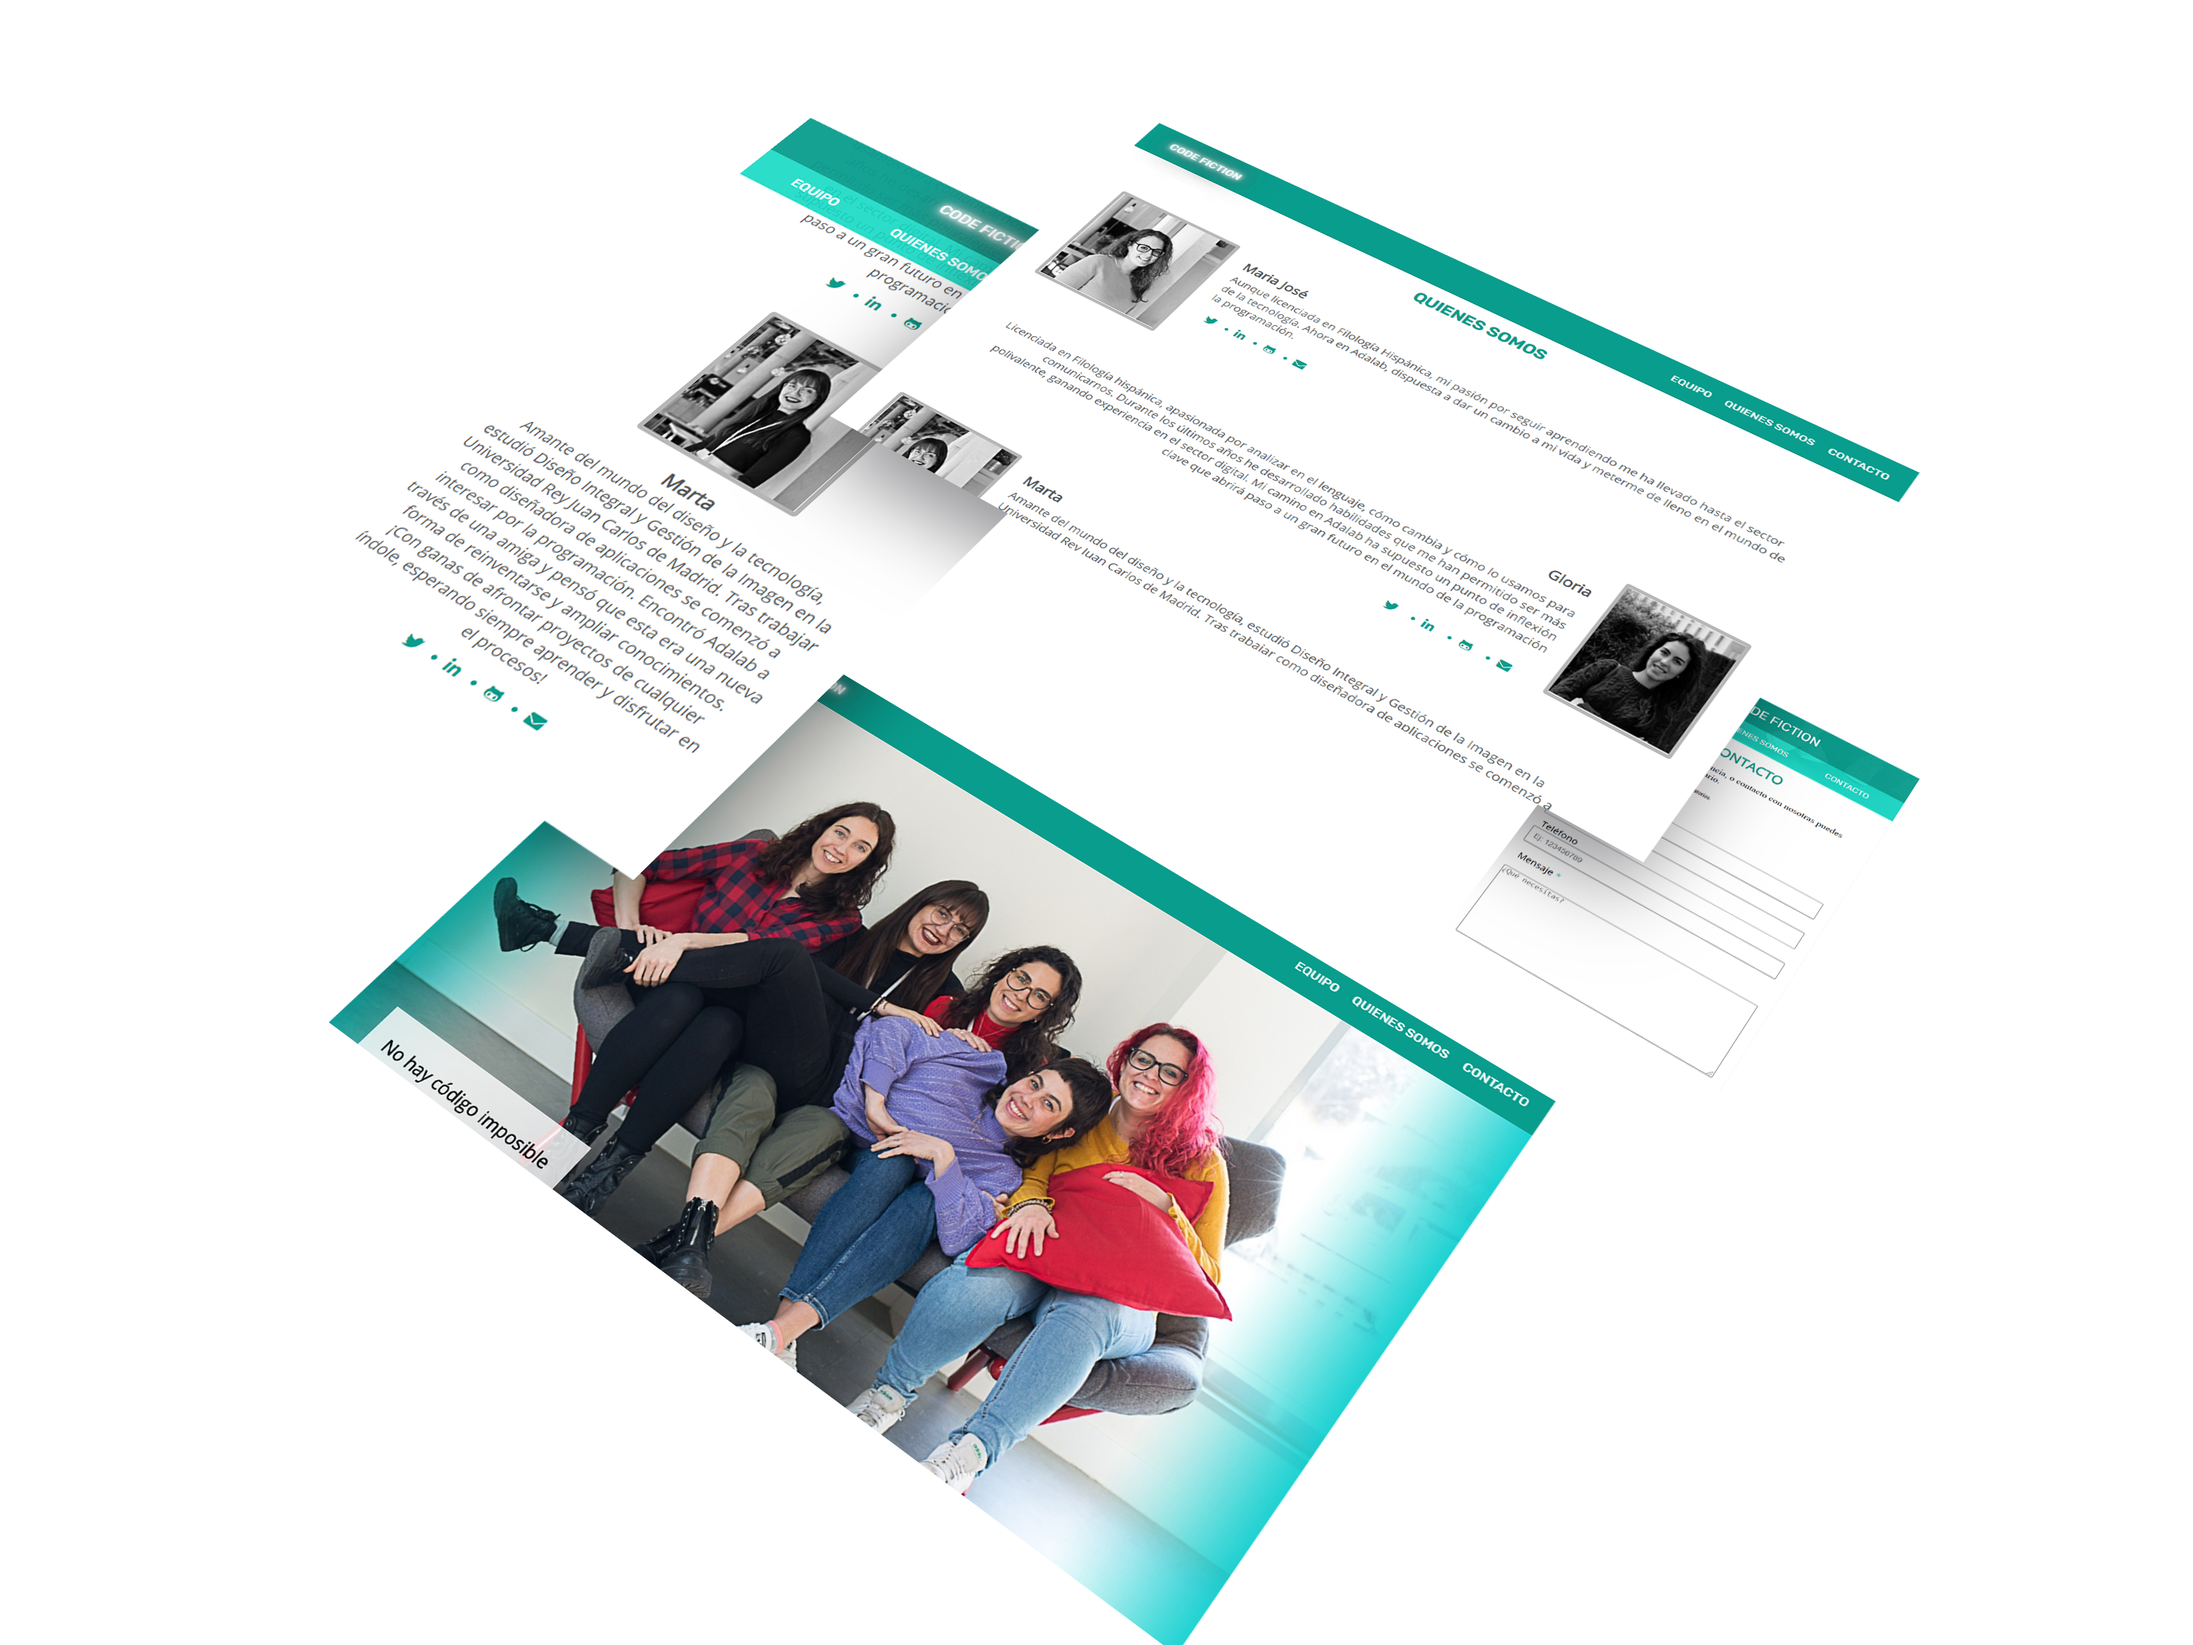
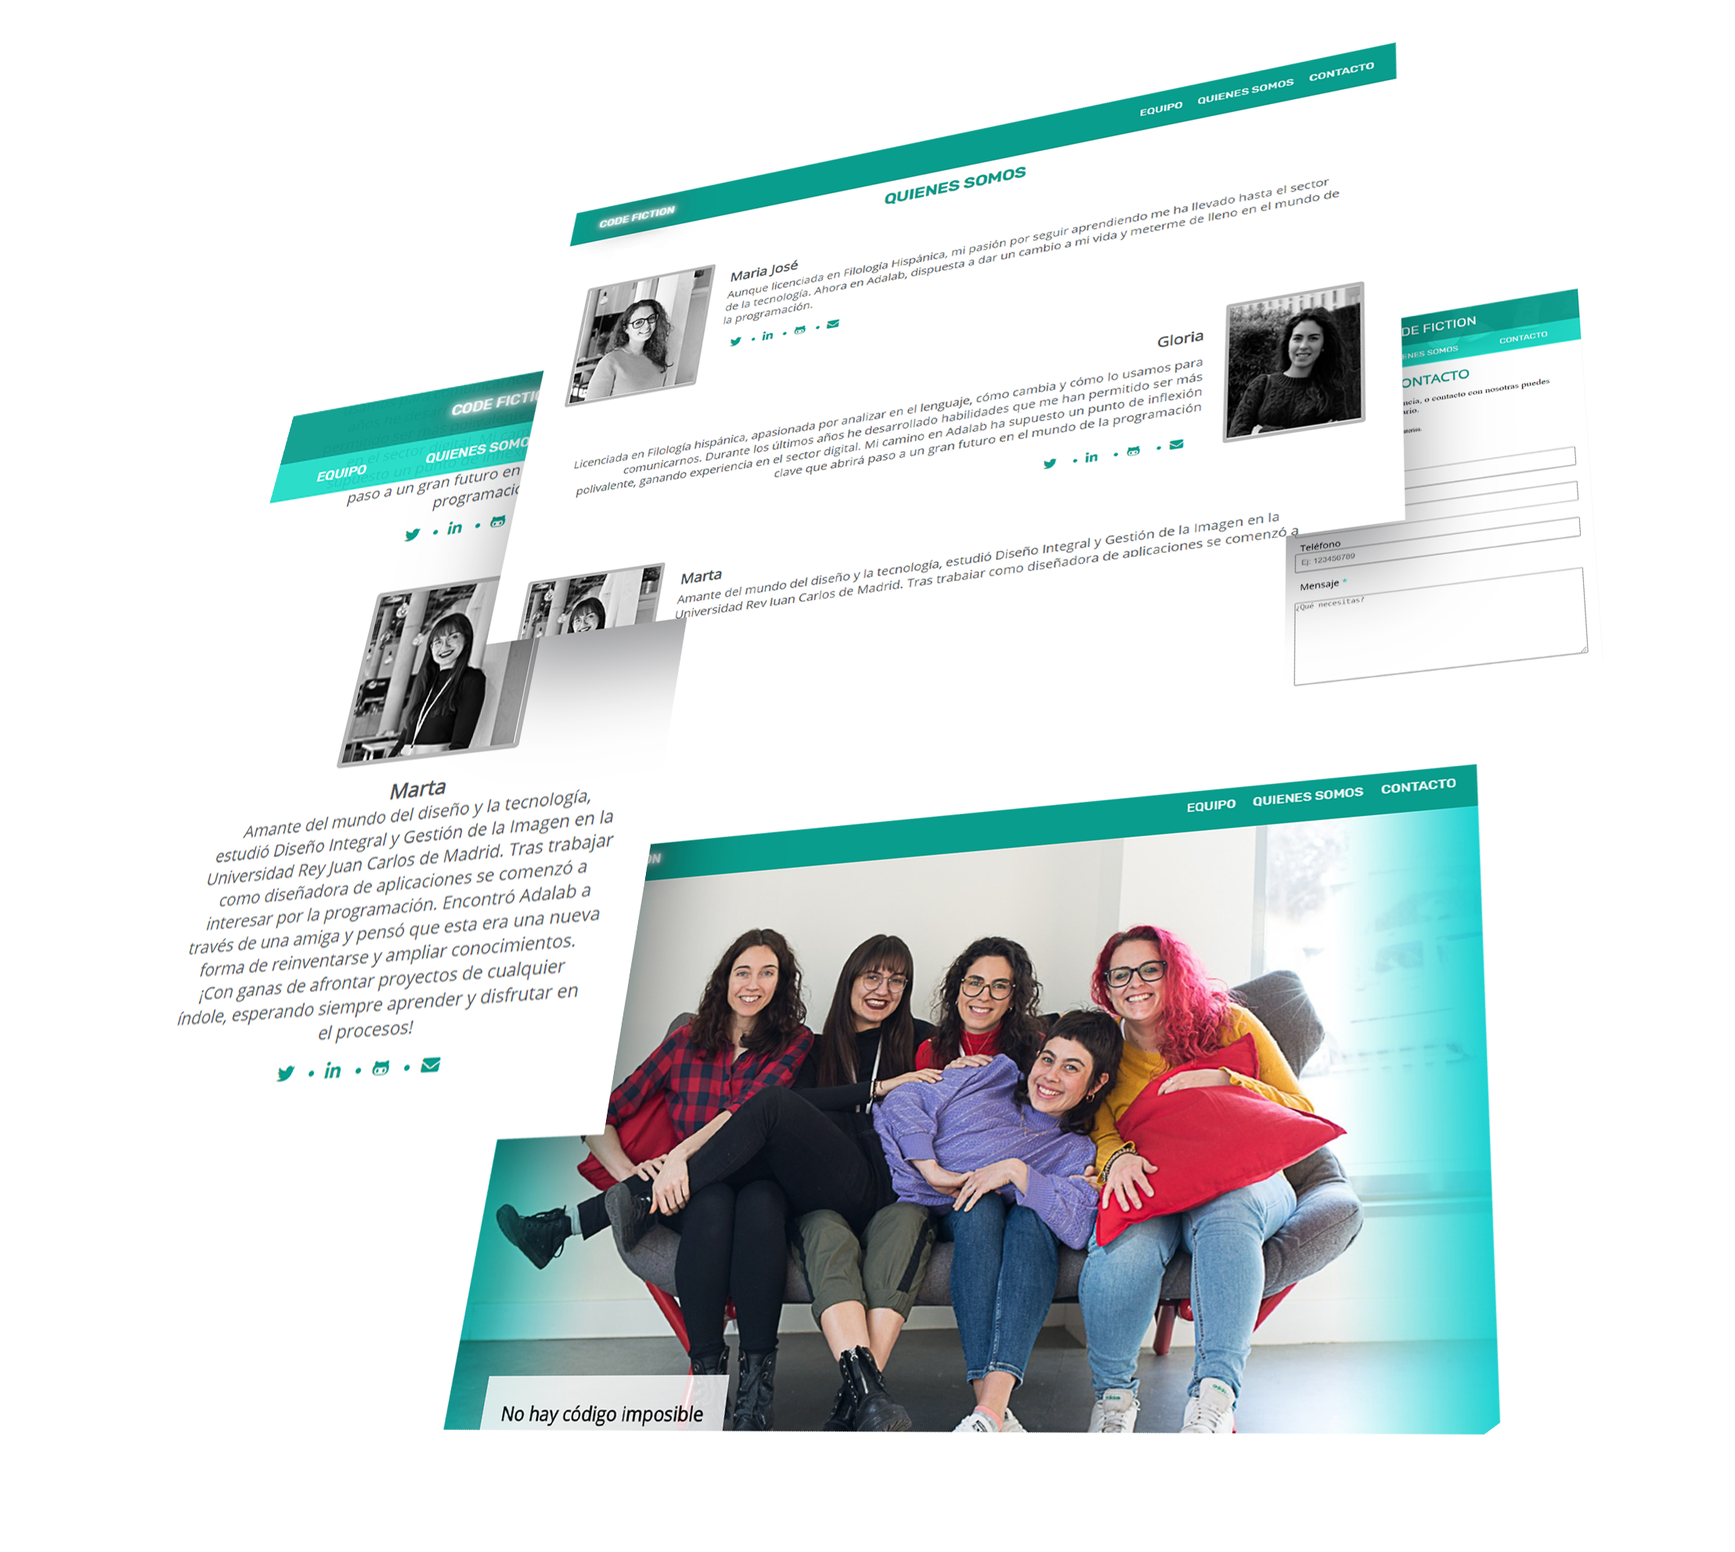
Finish Project Page CSS

diff --git a/src/stylesheets/layout/_app.scss b/src/stylesheets/layout/_app.scss
@@ -44,86 +44,48 @@
     transition: 0.5s;
     color: rgba(255, 255, 255, 0);
   }
-  // &__menu a:hover:after {
-  //   -webkit-text-stroke: 2px white;
-  //   z-index: 2;
-  //   transform: translate(20px, 10px);
-  //   transition: 0.5s;
-  //   color: rgba(255, 255, 255, 0);
-  // }
 }
-// .page {
-//   width: 100vw;
-//   height: 100vh;
-//   color: white;
-// }
+
 .section__about {
-  text-align: left;
-  margin-top: 40px;
-  padding: 0px 130px 0px 130px;
+  display: grid;
+  grid-template-columns: 40% 50%;
+  grid-column-gap: 100px;
   color: white;
   &--box {
-    width: 60%;
-    position: relative;
-    left: 600px;
-    padding-top: 40px;
+    padding-top: 50px;
+    text-align: left;
+    grid-column: 2 / 3;
   }
   &--title {
+    display: inline-block;
     font-family: $par;
     font-size: 60px;
     margin: 0px;
   }
   &--subtitle {
+    display: inline-block;
     font-family: $par;
     font-size: 60px;
     margin: 0px;
   }
   &--subtitle span {
+    display: inline-block;
+    position: relative;
     color: $mainColor;
   }
-  &--subtitle .text-underline::after {
-    position: absolute;
-    content: '';
-    width: 170px;
-    height: 20px;
-    top: 175px;
-    left: 260px;
-    background: white;
-    z-index: -1;
-    transition: transform 0.5s;
-    transform: scaleX(0);
-    transform-origin: right;
-  }
-  &--subtitle .text-underline-two::after {
-    position: absolute;
-    content: '';
-    width: 710px;
-    height: 20px;
-    top: 255px;
-    left: 0px;
-    background: white;
-    z-index: -1;
-    transition: transform 0.5s;
-    transform: scaleX(0);
-    transform-origin: right;
-  }
 
-  &--subtitle .text-underline:hover::after,
-  .text-underline-two:hover::after {
-    transform: scaleX(1);
-    transform-origin: left;
-  }
   &--text {
     display: inline-block;
-    width: 93%;
+    word-wrap: break-word;
     text-align: justify;
     font-family: $par;
+    width: 700px;
   }
   &--container {
     display: inline-block;
-    position: absolute;
-    left: 40;
     height: 500px;
+    grid-column: 1 / 2;
+    vertical-align: middle;
   }
 }
 .section__about img {
@@ -131,7 +93,7 @@
   position: relative;
   z-index: 2;
   top: -40px;
-  left: 80px;
+  left: 20px;
   filter: grayscale(100%);
 }
 .frame {
@@ -151,8 +113,8 @@
     display: inline-block;
     position: relative;
     z-index: -2;
-    top: -75px;
-    left: -380px;
+    top: -480px;
+    left: 20px;
   }
   &__white {
     border: 4px white dotted;
@@ -161,8 +123,8 @@
     display: inline-block;
     position: relative;
     z-index: -3;
-    top: -55px;
-    left: -760px;
+    top: 20px;
+    left: 20px;
   }
   &__bck {
     border: 4px white solid;
@@ -171,9 +133,43 @@
     display: inline-block;
     position: relative;
     z-index: -4;
-    top: -440px;
-    left: 90px;
+    top: 20px;
+    left: 20px;
   }
+}
+.text-underline::before {
+  content: '';
+  position: absolute;
+  width: 100%;
+  transform: scaleX(0);
+  z-index: -1;
+  height: 20px;
+  bottom: 5px;
+  left: 0;
+  background-color: white;
+  transform-origin: bottom right;
+  transition: transform 0.25s ease-out;
+}
+.text-underline:hover::before {
+  transform: scaleX(1);
+  transform-origin: bottom left;
+}
+.text-underline-two::before {
+  content: '';
+  position: absolute;
+  width: 100%;
+  transform: scaleX(0);
+  z-index: -1;
+  height: 20px;
+  bottom: 5px;
+  left: 0;
+  background-color: white;
+  transform-origin: bottom right;
+  transition: transform 0.25s ease-out;
+}
+.text-underline-two:hover::before {
+  transform: scaleX(1);
+  transform-origin: bottom left;
 }
 @media all and (min-width: 768px) {
 }

diff --git a/src/stylesheets/layout/_projects.scss b/src/stylesheets/layout/_projects.scss
@@ -1,21 +1,26 @@
 .section__projects {
-  display: grid;
-  grid-template-columns: 1fr 1fr 1fr;
-  grid-template-rows: 1fr 1fr;
-  grid-gap: 0px;
-  padding-top: 200px;
+  // display: grid;
+  // grid-template-columns: 1fr 1fr 1fr 1fr 1fr 1fr;
+  // grid-template-rows: 1fr;
+  // grid-gap: 20px;
+  padding-top: 100px;
+  width: 100%;
+  display: flex;
+  flex-direction: row;
   overflow-x: scroll;
-  // width: 1000px;
-  overflow: hidden;
+
   &--container {
     display: inline-block;
     grid-column: 1 / 2;
-    grid-row: 1 / 2;
     text-align: center;
-    height: 500px;
+    height: 465px;
+    margin-right: 100px;
+  }
+  &--container:first-child {
+    padding-left: 100px;
   }
   &--container img {
-    height: 500px;
+    height: 450px;
     position: relative;
     left: -110px;
     top: -60px;
@@ -34,11 +39,23 @@
     width: 300px;
   }
 }
+.section__projects::-webkit-scrollbar {
+  height: 5px;
+  background-color: transparent;
+  padding-bottom: 40px;
+}
+.section__projects:hover::-webkit-scrollbar {
+  background-color: white;
+}
+.section__projects:hover::-webkit-scrollbar-thumb {
+  background-color: $mainColor;
+}
+
 .box--decoration {
   background-color: $mainColor;
   border: 10px solid white;
-  height: 400px;
-  width: 400px;
+  height: 350px;
+  width: 350px;
   display: inline-block;
 }
 .box--decoration:hover {
@@ -47,28 +64,22 @@
   box-shadow: 10px -10px 0 -3px black, 10px -10px white, 20px -20px 0 -3px black, 20px -20px white, 30px -30px 0 -3px black, 30px -30px white, 40px -40px 0 -3px black, 40px -40px white;
 }
 .second {
-  grid-column: 2 / 3;
-  grid-row: 1 / 2;
+  grid-column: 3 / 4;
 }
 .second img {
-  margin-left: 60px;
   transform: rotate(-50deg);
+  left: 10px;
 }
 .third {
-  grid-column: 3 / 4;
-  grid-row: 1 / 2;
+  grid-column: 4 / 5;
 }
 .third img {
-  height: 700px;
-  left: -300px;
-  top: -200px;
+  left: 0px;
+  top: -80px;
 }
-.third h4 {
-  top: -330px;
-}
+
 .four {
-  grid-column: 1 /2;
-  grid-row: 2 / 3;
+  grid-column: 5 /6;
 }
 .four img {
   margin-left: 20px;
@@ -78,21 +89,16 @@
   width: 450px;
 }
 .five {
-  grid-column: 2 /3;
-  grid-row: 2 / 3;
+  grid-column: 6 /7;
 }
 .five img {
-  left: -200px;
-  top: -150px;
-  height: 600px;
-}
-.five h4 {
-  top: -230px;
+  left: -80px;
 }
 .six {
-  grid-column: 3 /4;
-  grid-row: 2 / 3;
+  grid-column: 7 /8;
 }
 .six img {
-  transform: rotate(-20deg);
+  left: -70px;
+  top: -100px;
+  transform: rotate(10deg);
 }

diff --git a/src/components/App.js b/src/components/App.js
@@ -37,10 +37,12 @@ function App() {
             <div className="frame__pink">
               {' '}
               <img src={img} title="Marta" alt="Get to know me" />
+              <div className="frame__paper">
+                <div className="frame__white">
+                  <div className="frame__bck"></div>
+                </div>
+              </div>
             </div>
-            <div className="frame__paper"></div>
-            <div className="frame__white"></div>
-            <div className="frame__bck"></div>
           </div>
           <div className="section__about--box">
             <h3 className="page section__about--title">¡Hola!</h3>
